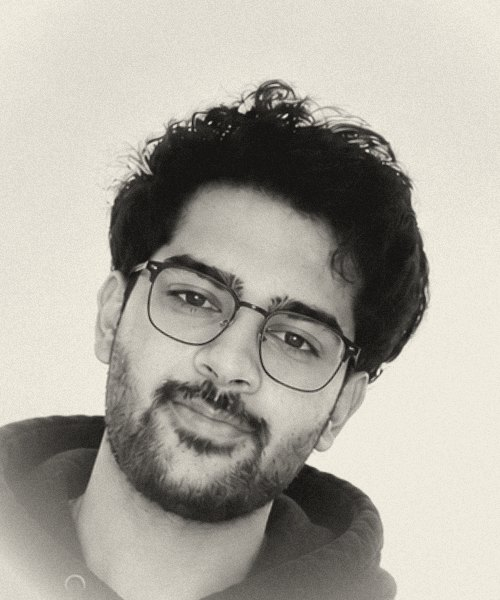
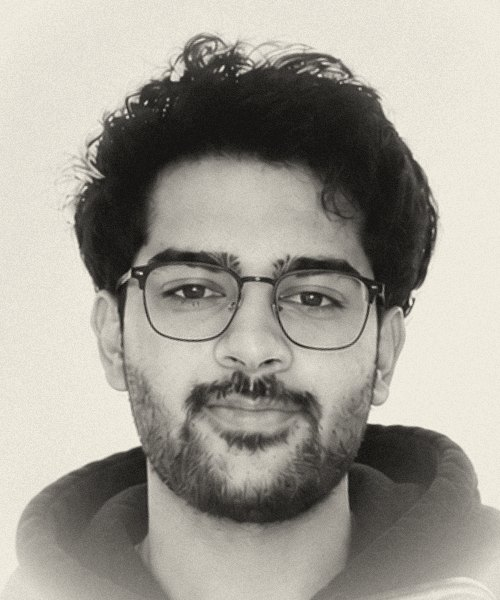
Straighten the About portrait and center the face

diff --git a/src/styles/global.css b/src/styles/global.css
@@ -785,7 +785,7 @@ html.has-cursor input, html.has-cursor textarea { cursor: text !important; }
 /* the portrait is printed onto the paper, so the paper's texture shows through it */
 .about__photo img { mix-blend-mode: multiply; }
 .nap .about__photo { width: min(250px, 34vh); }
-.about__photo { transform: rotate(-2.5deg); }
+.about__photo { transform: rotate(-1deg); }
 /* a strip of tape holding it on */
 .about__photo::before {
   content: ''; position: absolute; z-index: 2; top: -10px; left: 50%; width: 38%; height: 26px; translate: -50% 0; rotate: 4deg;
